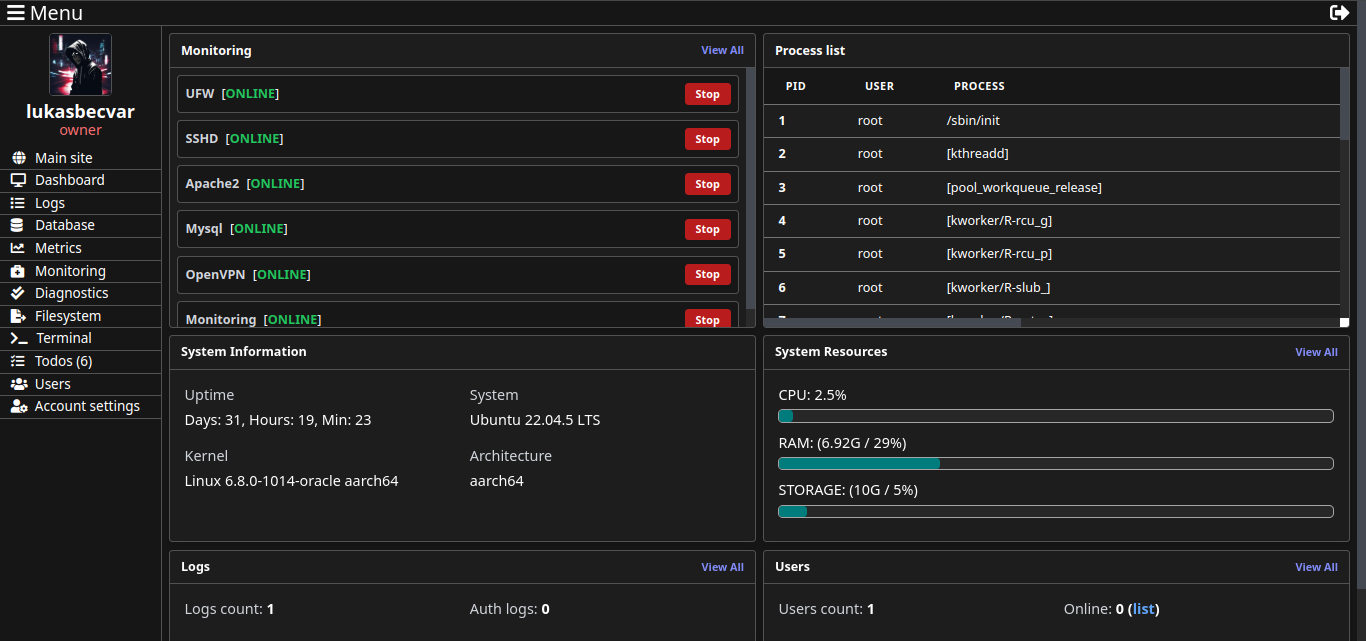
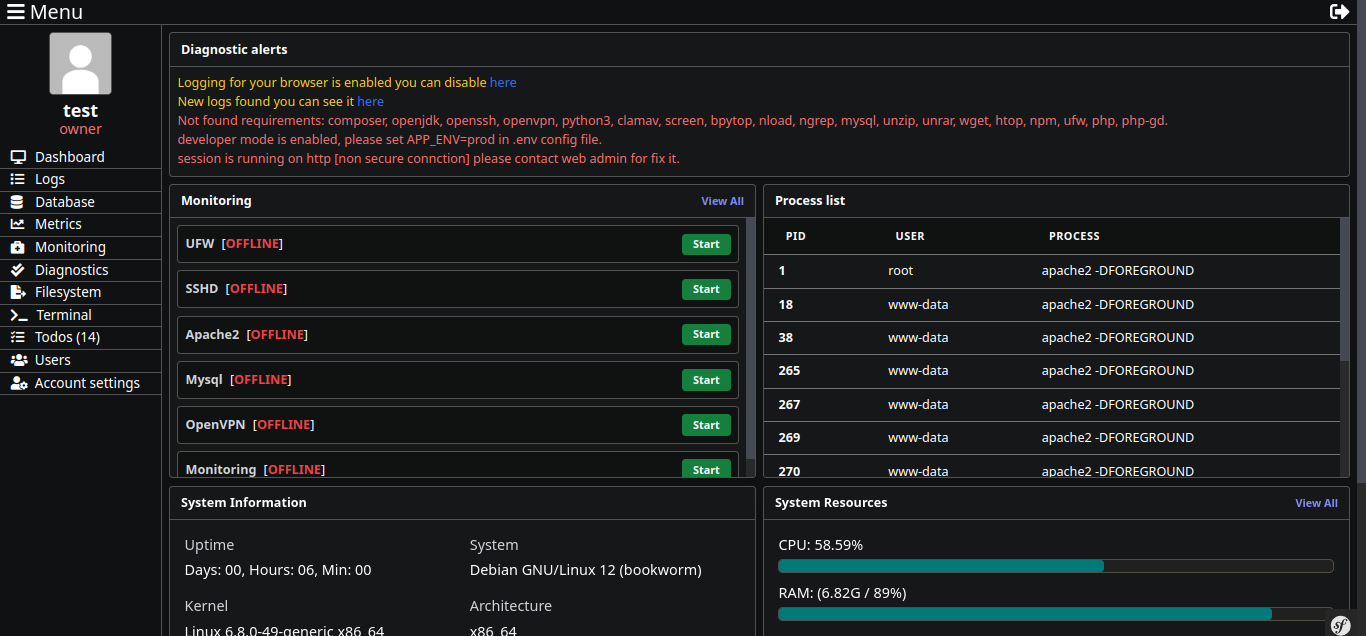
improved theme contrast

Changed region(s): [[0.0, 0.0, 1.0, 1.0], [0.7379, 0.5676, 0.8917, 0.5975], [0.123, 0.9858, 0.2767, 1.0]]

diff --git a/assets/css/main.css b/assets/css/main.css
@@ -7,7 +7,7 @@
 
 body {
 	scroll-behavior: smooth;
-	background-color: #161616;
+	background-color: #101112;
 }
 
 main {
@@ -49,12 +49,28 @@ main {
 	margin-right: 10px !important;
 }
 
+.bg-neutral-810 {
+	background-color: #1e1f20 !important;
+}
+
+.bg-neutral-810:hover {
+	background-color: #2a2b2c !important;
+}
+
 .bg-neutral-850 {
-	background-color: rgb(30, 30, 30) !important;
+	background-color: #161718 !important;
 }
 
 .bg-neutral-880 {
-	background-color: #1a1a1a !important;
+	background-color: #151718 !important;
+}
+
+.bg-neutral-890 {
+	background-color: #101212 !important;
+}
+
+.bg-neutral-910 {
+	background-color: #101212 !important;
 }
 
 .bg-red-750 {
@@ -62,11 +78,11 @@ main {
 }
 
 .card-color {
-	background-color: #1d1d1d;
+	background-color: #151718;
 }
 
 .background-dark {
-    background: rgb(20, 20, 20) !important;
+    background: #151718 !important;
 }
 
 .link {
@@ -112,7 +128,7 @@ main {
 
 .auth-form-input:focus {
 	color: white;
-	border-color: rgb(37 99 235);
+	border-color: rgb(24, 132, 255);
 }
 
 .auth-form-input:focus {
@@ -171,7 +187,7 @@ main {
 	height: 28px;
 	z-index: 1000;
 	position: fixed;
-	background-color: #161616;
+	background-color: #101112;
 }
 
 .nav-bar #menu-toggle {
@@ -199,7 +215,7 @@ main {
 	position: fixed;
 	overflow-y: auto; 
 	height: calc(100% - 28px); 
-	background-color: #161616;
+	background-color: #101112;
 	transform: translateX(-100%);
 	transition: transform 0.2s ease;
 }
@@ -234,6 +250,7 @@ main {
 	padding: 3px;
     display: flex;
     justify-content: flex-start;
+	background-color: #101112 !important;
 }
 
 .sub-navigation > * {
@@ -319,15 +336,15 @@ main {
 	height: 15px;
     margin-bottom: 10px;
 	border-radius: 5.3px;
-    background-color: #272727;
-	border: 0.8px solid rgb(165, 165, 165);
+    background-color: #202020;
+	border: 0.8px solid #524d45;
 }
 
 .dashbard-component .progress {
 	width: 0%;
     height: 100%;
     transition: width 0.2s ease;
-    background-color: rgb(1, 124, 124);
+    background-color: #007a7a;
 }
 
 .dashbard-component .card-text {
@@ -465,7 +482,7 @@ main {
 		height: 30px;
 		z-index: 1000;
 		position: fixed;
-		background-color: #161616;
+		background-color: #101112;
 	}
 	#sidebar {
 		top: 30px;

diff --git a/assets/js/metrics-charts.js b/assets/js/metrics-charts.js
@@ -16,7 +16,7 @@ var optionsCpuRadial = {
         width: '100%',
         height: '100%',
         type: 'radialBar',
-        background: '#1d1d1d',
+        background: '#151718',
         padding: {
             top: 0,
             right: 0,
@@ -64,7 +64,7 @@ var optionsCpuLine = {
     chart: {
         height: 250,
         type: 'area',
-        background: '#1d1d1d',
+        background: '#151718',
         toolbar: {
             show: true,
             tools: {
@@ -120,7 +120,7 @@ var optionsRamRadial = {
         width: '100%',
         height: '100%',
         type: 'radialBar',
-        background: '#1d1d1d',
+        background: '#151718',
         padding: {
             top: 0,
             right: 0,
@@ -168,7 +168,7 @@ var optionsRamLine = {
     chart: {
         height: 250,
         type: 'area',
-        background: '#1d1d1d',
+        background: '#151718',
         toolbar: {
             show: true,
             tools: {
@@ -224,7 +224,7 @@ var optionsStorageRadial = {
         width: '100%',
         height: '100%',
         type: 'radialBar',
-        background: '#1d1d1d',
+        background: '#151718',
         padding: {
             top: 0,
             right: 0,
@@ -272,7 +272,7 @@ var optionsStorageLine = {
     chart: {
         height: 250,
         type: 'area',
-        background: '#1d1d1d',
+        background: '#151718',
         toolbar: {
             show: true,
             tools: {
